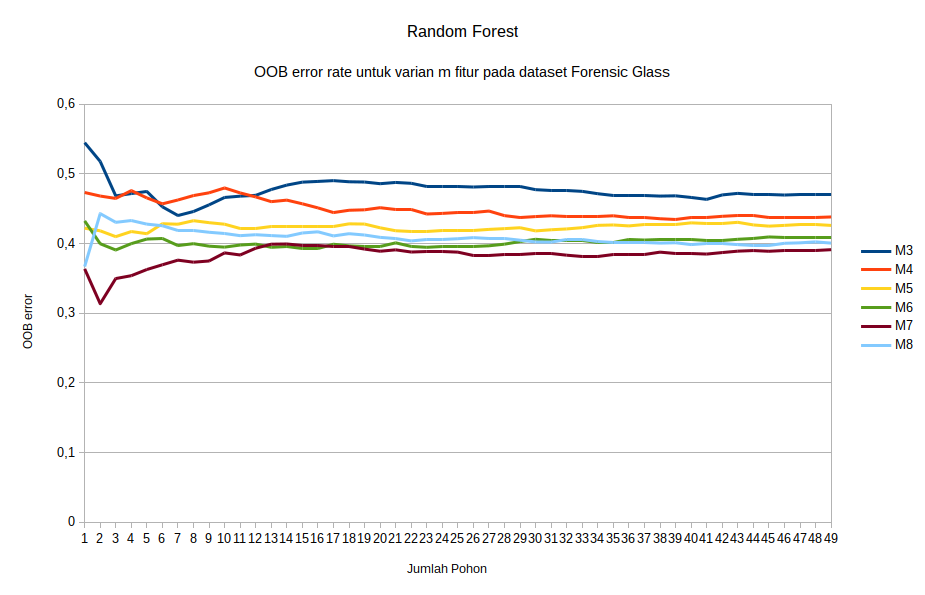
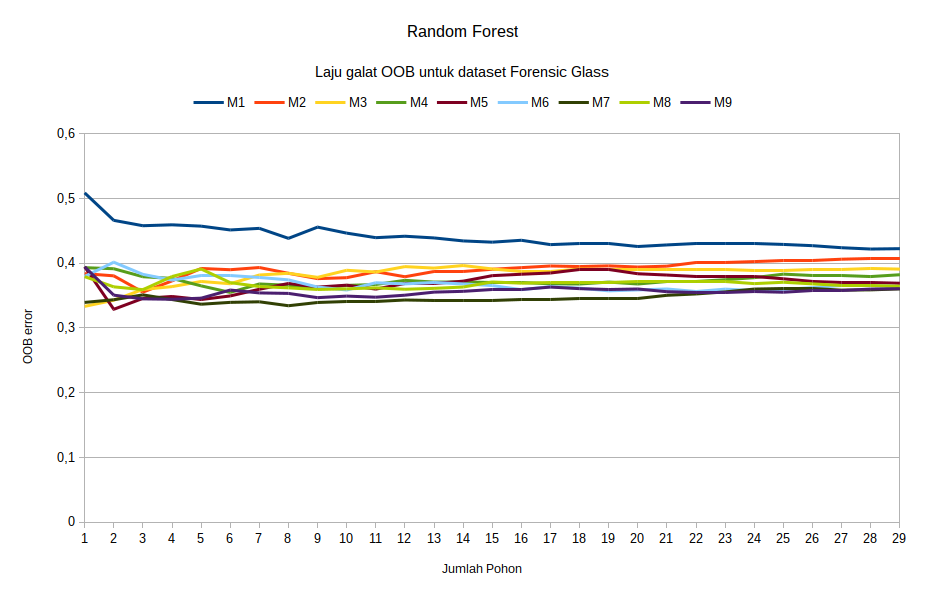
progress report 05: add CART output and Iris OOB error rate.

diff --git a/progress-report/notes/report_05.tex b/progress-report/notes/report_05.tex
@@ -10,6 +10,56 @@ pada \textit{grandchild}-nya.
 Hal seperti ini tidak pernah disebutkan dalam teks algoritma CART,
 sehingga saya cukup kesulitan menemukan kesalahan yang dilakukan.
 
+Hasil implementasi dibandingkan dengan package CART dari program \texttt{R}
+dengan menggunakan dataset Iris.
+
+Berikut \textit{tree} dari hasil implementasi sendiri,
+
+\begin{lstlisting}
+CART Tree:
+ { petal-length false true 150 2 2.45}
+        { petal-width false true 100 3 1.75}
+                { petal-length false true 46 2 4.85}
+                        {Iris-virginica  true false 43 0 <nil>}
+                        { sepal-length false true 3 0 5.95}
+                                {Iris-virginica  true false 2 0 <nil>}
+                                {Iris-versicolor  true false 1 0 <nil>}
+                { petal-length false true 54 2 4.95}
+                        { petal-width false true 6 3 1.55}
+                                { sepal-length false true 3 0 6.95}
+                                        {Iris-virginica  true false 1 0 <nil>}
+                                        {Iris-versicolor  true false 2 0 <nil>}
+                                {Iris-virginica  true false 3 0 <nil>}
+                        { petal-width false true 48 3 1.65}
+                                {Iris-virginica  true false 1 0 <nil>}
+                                {Iris-versicolor  true false 47 0 <nil>}
+        {Iris-setosa  true false 50 0 <nil>}
+\end{lstlisting}
+
+Berikut \textit{tree} menggunakan package \texttt{rpart} dari program \texttt{R},
+
+\begin{lstlisting}
+ 1) root 150 100 setosa (0.33333333 0.33333333 0.33333333)
+   2) Petal.Length< 2.45 50   0 setosa (1.00000000 0.00000000 0.00000000) *
+   3) Petal.Length>=2.45 100  50 versicolor (0.00000000 0.50000000 0.50000000)
+     6) Petal.Width< 1.75 54   5 versicolor (0.00000000 0.90740741 0.09259259)
+      12) Petal.Length< 4.95 48   1 versicolor (0.00000000 0.97916667 0.02083333)
+        24) Petal.Width< 1.65 47   0 versicolor (0.00000000 1.00000000 0.00000000) *
+        25) Petal.Width>=1.65 1   0 virginica (0.00000000 0.00000000 1.00000000) *
+      13) Petal.Length>=4.95 6   2 virginica (0.00000000 0.33333333 0.66666667)
+        26) Petal.Width>=1.55 3   1 versicolor (0.00000000 0.66666667 0.33333333)
+          52) Sepal.Length< 6.95 2   0 versicolor (0.00000000 1.00000000 0.00000000) *
+          53) Sepal.Length>=6.95 1   0 virginica (0.00000000 0.00000000 1.00000000) *
+        27) Petal.Width< 1.55 3   0 virginica (0.00000000 0.00000000 1.00000000) *
+     7) Petal.Width>=1.75 46   1 virginica (0.00000000 0.02173913 0.97826087)
+      14) Petal.Length< 4.85 3   1 virginica (0.00000000 0.33333333 0.66666667)
+        28) Sepal.Length< 5.95 1   0 versicolor (0.00000000 1.00000000 0.00000000) *
+        29) Sepal.Length>=5.95 2   0 virginica (0.00000000 0.00000000 1.00000000) *
+      15) Petal.Length>=4.85 43   0 virginica (0.00000000 0.00000000 1.00000000) *
+\end{lstlisting}
+
+Hasil dari kedua \textit{tree} sama.
+
 \subsection{Implementasi Random Forest}
 
 Implemetansi algoritma \textit{ensemble} \textit{Random Forest} (RF) secara
@@ -41,11 +91,9 @@ BEGIN
 
 	FOR i = 0; i < NTREE; i++
 	BEGIN
-		subsample, oob := RandomPickRows(D, NBAGGING)
+		bootstrap, oob := RandomPickRows(D, NBAGGING)
 
-		subfeature := RandomPickColumns(subsample, NFEATURE)
-
-		cartTree := CreateTree(subfeature)
+		cartTree := CreateTree(bootstrap, NFEATURE)
 
 		ooberror := cartTree.CountOOBError(oob)
 
@@ -58,20 +106,40 @@ BEGIN
 END
 \end{lstlisting}
 
-Hasil implementasi kemudian diuji dengan dataset \textit{Glass Identification}
-\cite{evett1987rule}, dengan jumlah sample yaitu 124, jumlah fitur 9, jumlah
+Hasil implementasi kemudian diuji dengan dataset,
+\begin{itemize}
+\item \textit{Glass Identification}
+\cite{evett1987rule}, dengan jumlah sampel yaitu 124, jumlah fitur 9, jumlah
 kelas yaitu 7 (contoh data bisa dilihat pada lampiran
-\ref{appendix:dataset_glass}),
+\ref{appendix:dataset_glass}).
 Hasilnya dalam bentuk grafik penghitungan laju galat OOB yang dapat dilihat
 pada gambar \ref{fig:rf_glass}.
+
+\item \textit{Iris}, dengan jumlah sampel yaitu 150, jumlah fitur 5, jumlah
+kelas 3.
+Hasilnya dalam bentuk grafik penghitungan laju galat OOB yang dapat dilihat
+pada gambar \ref{fig:rf_iris}.
+\end{itemize}
 
 \begin{figure}[t]
 	\centering
 	\includegraphics[keepaspectratio=true,scale=0.5]{rf_glass}
-	\caption{OOB laju error pada Random Forest untuk dataset Forensic Glass
-	dengan jumlah fitur secara acak dari 2 sampai 9.}
+	\caption{Laju galat OOB pada \textit{Random Forest} untuk dataset
+	\textit{Forensic Glass} dengan jumlah fitur acak dari 2 sampai 9.
+	M1-M9 yaitu jumlah fitur acak yang digunakan, yang mana M2 berarti dua
+	fitur acak dipilih, M3 berarti tiga fitur acak dipilih, dst.
+	}
 	\label{fig:rf_glass}
 \end{figure}
+
+\begin{figure}[t]
+	\centering
+	\includegraphics[keepaspectratio=true,scale=0.5]{rf_iris}
+	\caption{Laju galat OOB pada \textit{Random Forest} untuk dataset
+	\textit{Iris} dengan jumlah fitur acak dari 1 sampai 4.}
+	\label{fig:rf_iris}
+\end{figure}
+
 
 Dataset diuji dengan mengambil dua per tiga (66\%) dari data asli untuk
 \textit{bootstrap} dan sisanya digunakan sebagai latihan (OOB) untuk

diff --git a/progress-report/Progress_Report_05.tex b/progress-report/Progress_Report_05.tex
@@ -7,7 +7,7 @@
 %% DOCUMENT
 %%
 \begin{document}
-\reportcover{V}{15 dan 16}{Desember 2015}
+\reportcover{V}{15 dan 16}{Januari 2016}
 
 \section{Pendahuluan}
 
@@ -26,9 +26,24 @@ Pekerjaan yang telah dilakukan,
 
 \input{notes/report_05}
 
+\clearpage
 \section{Pekerjaan Selanjutnya}
 
-Mempelajari dan mengimplementasikan algoritma \textit{Cascaded Random Forest}.
+Berikut garis besar tahap yang akan dikerjakan untuk pekerjaan selanjutnya,
+
+\begin{itemize}
+\item Mempelajari dan mengimplementasikan \textit{Cascaded Random Forest}.
+\item Implementasi algoritma LN-SMOTE.
+\item Mempelajari tentang kurva ROC and AUC.
+\item Implementasi penghitungan fitur.
+\item Menerapkan algoritma SMOTE dan LN-SMOTE pada hasil penghitungan fitur.
+\item Menerapkan \textit{Random Forest} pada hasil \textit{resampling} SMOTE
+dan LN-SMOTE.
+\item Menerapkan algoritma \textit{Cascade Random Forest} dari hasil SMOTE dan
+LN-SMOTE.
+\item Membandingkan hasil dari klasifikasi \textit{Random Forest} dan
+\textit{Cascaded RandomForest}
+\end{itemize}
 
 \clearpage
 \schedule{4}{13}{0}{0}
